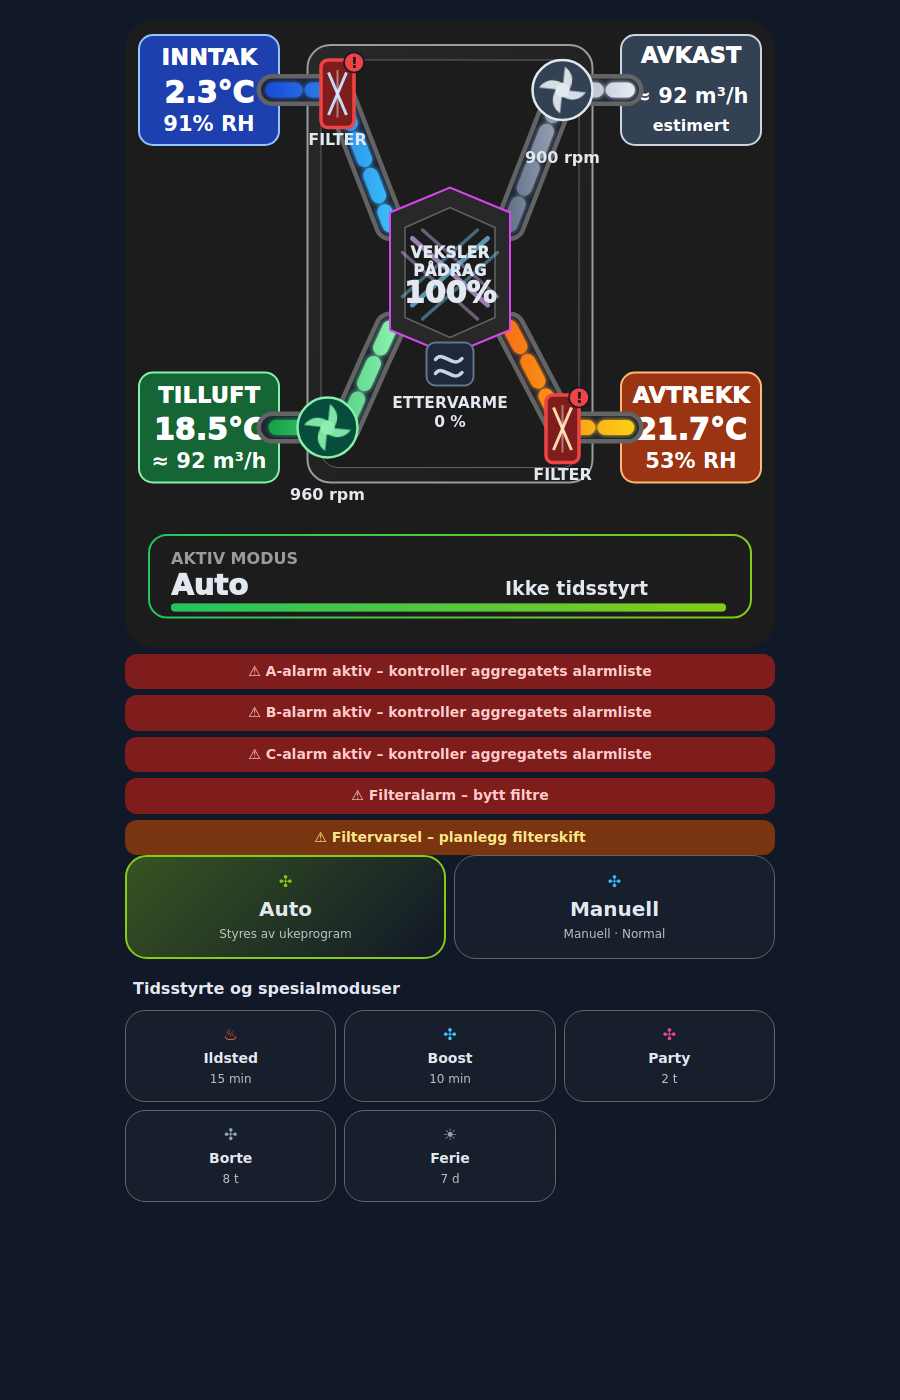
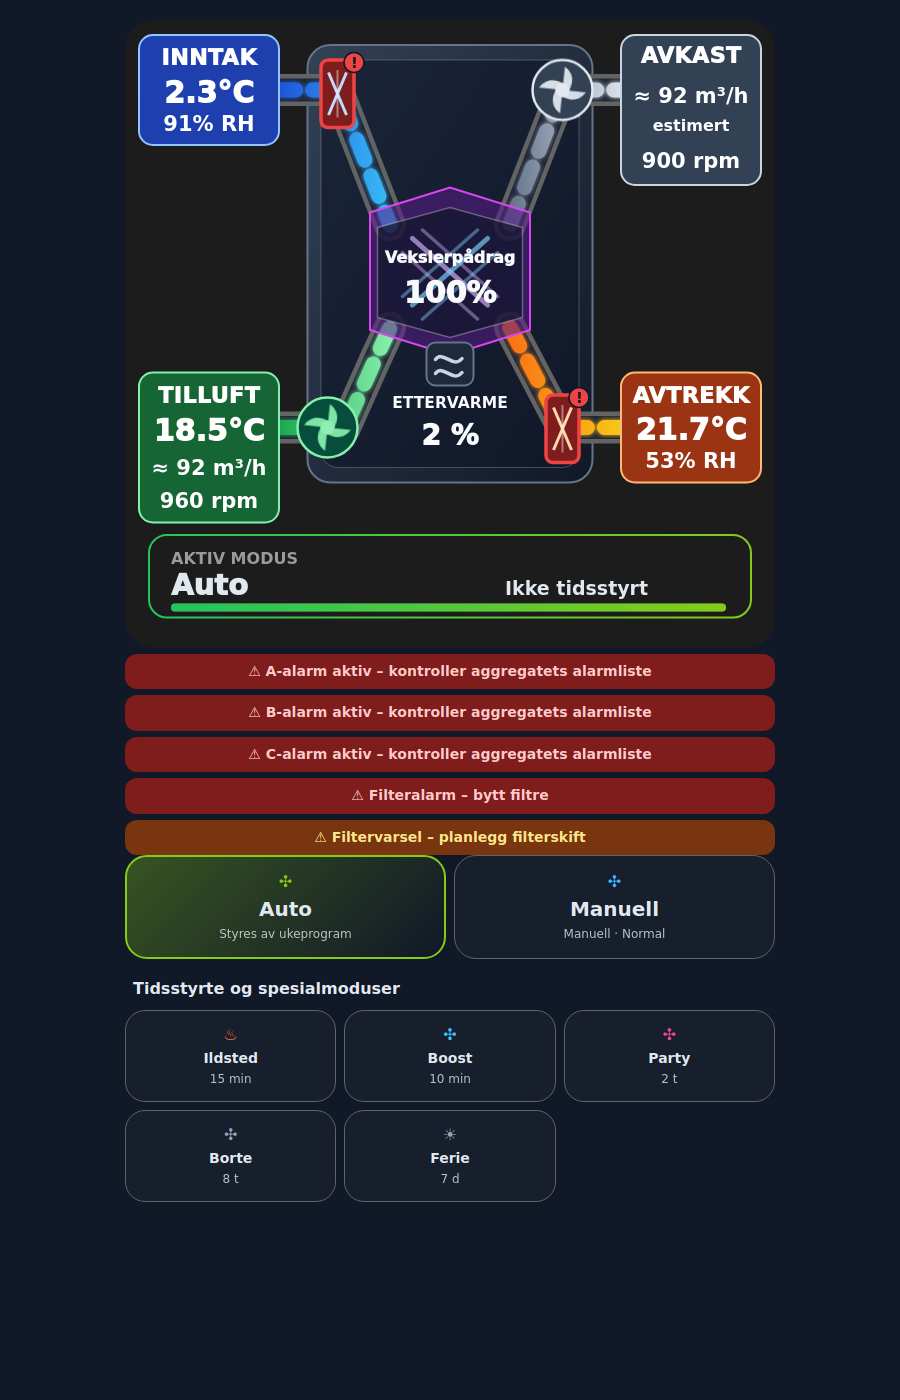
Improve cockpit labels and restore dark equipment in VSR300 Cards 1.1.3

diff --git a/vsr300-cards.js b/vsr300-cards.js
@@ -1,4 +1,4 @@
-/* VSR300 custom cards · version 1.1.2 · 2026-11-02
+/* VSR300 custom cards · version 1.1.3 · 2026-11-02
  * SPDX-License-Identifier: MIT
  * Copyright (c) 2026 stboee
  * Based on Systemair SVG / Kontrollpanel 4.8.1.
@@ -8,7 +8,7 @@
  */
 (() => {
   'use strict';
-  const VERSION = '1.1.2';
+  const VERSION = '1.1.3';
   const FIELD = (key, label, domain, defaultId, extra = {}) => ({ key, label, domain, defaultId, ...extra });
   const SVG_FIELDS = [
     FIELD('mode', 'Rapportert driftsmodus', 'sensor', 'sensor.systemair_save_modus'),
@@ -301,8 +301,8 @@ const heaterFill = !ettervarmeKnown ? '#854d0e' : ettervarmeActive ? '#991b1b' :
           </linearGradient>
 
           <linearGradient id="unitBg" x1="0" y1="0" x2="1" y2="1">
-            <stop offset="0%" stop-color="var(--secondary-background-color, #f5f5f5)" />
-            <stop offset="100%" stop-color="var(--card-background-color, #ffffff)" />
+            <stop offset="0%" stop-color="#334155" />
+            <stop offset="100%" stop-color="#111827" />
           </linearGradient>
 
           <linearGradient id="coldAir" x1="0" y1="0" x2="1" y2="0">
@@ -384,6 +384,9 @@ const heaterFill = !ettervarmeKnown ? '#854d0e' : ettervarmeActive ? '#991b1b' :
               font-weight: 900;
               fill: var(--primary-text-color, #212121);
             }
+            .heater-value { font-size: 56px; font-weight: 950; }
+            .heater-value-unknown { font-size: 36px; }
+            .recovery-title { font-size: 32px; letter-spacing: 0; }
             .mode-title {
               font-family: Arial, sans-serif;
               font-size: 32px;
@@ -404,6 +407,8 @@ const heaterFill = !ettervarmeKnown ? '#854d0e' : ettervarmeActive ? '#991b1b' :
             }
             /* Semantic air-port colours retain a contrasting light foreground. */
             .port-text { fill: #ffffff; }
+            /* Equipment stays dark inside the theme-aware cockpit canvas. */
+            .unit-text { fill: #f8fafc; }
             .duct-base {
               fill: none;
               stroke: var(--divider-color, #bdbdbd);
@@ -442,28 +447,8 @@ const heaterFill = !ettervarmeKnown ? '#854d0e' : ettervarmeActive ? '#991b1b' :
 
         <rect class="canvas" x="0" y="-250" width="1300" height="1255" rx="34" fill="url(#panelBg)" />
 
-        <rect class="unit-shell" x="365" y="-200" width="570" height="875" rx="46" fill="url(#unitBg)" stroke="var(--secondary-text-color, #727272)" stroke-width="4" />
-        <rect class="unit-inner" x="392" y="-170" width="516" height="815" rx="34" fill="var(--card-background-color, #ffffff)" stroke="var(--divider-color, #bdbdbd)" stroke-width="2" />
-
-        <rect x="28" y="-220" width="280" height="220" rx="28" fill="#1e40af" stroke="#93c5fd" stroke-width="4" />
-        <text x="168" y="-160" text-anchor="middle" class="label port-text">INNTAK</text>
-        <text x="168" y="-85" text-anchor="middle" class="value port-text">${uteT}</text>
-        <text x="168" y="-29" text-anchor="middle" class="small port-text">${uteRh}</text>
-
-        <rect x="28" y="455" width="280" height="220" rx="28" fill="#166534" stroke="#86efac" stroke-width="4" />
-        <text x="168" y="515" text-anchor="middle" class="label port-text">TILLUFT</text>
-        <text x="168" y="590" text-anchor="middle" class="value port-text">${tilluftT}</text>
-        <text x="168" y="646" text-anchor="middle" class="small port-text">${tilluftFlow}</text>
-
-        <rect x="992" y="-220" width="280" height="220" rx="28" fill="#334155" stroke="#cbd5e1" stroke-width="4" />
-        <text x="1132" y="-165" text-anchor="middle" class="label port-text">AVKAST</text>
-        <text x="1132" y="-85" text-anchor="middle" class="small port-text">${avkastFlow}</text>
-        <text x="1132" y="-29" text-anchor="middle" class="micro port-text">estimert</text>
-
-        <rect x="992" y="455" width="280" height="220" rx="28" fill="#9a3412" stroke="#fdba74" stroke-width="4" />
-        <text x="1132" y="515" text-anchor="middle" class="label port-text">AVTREKK</text>
-        <text x="1132" y="590" text-anchor="middle" class="value port-text">${avtrekkT}</text>
-        <text x="1132" y="646" text-anchor="middle" class="small port-text">${inneRh}</text>
+        <rect class="unit-shell" x="365" y="-200" width="570" height="875" rx="46" fill="url(#unitBg)" stroke="#64748b" stroke-width="4" />
+        <rect class="unit-inner" x="392" y="-170" width="516" height="815" rx="34" fill="rgba(15,23,42,0.64)" stroke="rgba(148,163,184,0.38)" stroke-width="2" />
 
         <g opacity="${normalOpacity}">
           <path class="duct-base" d="M 295 -110 L 425 -110 L 530 160" />
@@ -493,11 +478,36 @@ const heaterFill = !ettervarmeKnown ? '#854d0e' : ettervarmeActive ? '#991b1b' :
           <path class="duct-flow" d="M 1005 565 L 875 565 L 875 -110 L 1005 -110" stroke="url(#warmAir)" />
         </g>
 
+        <!-- Paint port panels over duct ends so values stay unobscured. -->
+        <g class="air-info">
+          <rect x="28" y="-220" width="280" height="220" rx="28" fill="#1e40af" stroke="#93c5fd" stroke-width="4" />
+          <text x="168" y="-160" text-anchor="middle" class="label port-text">INNTAK</text>
+          <text x="168" y="-85" text-anchor="middle" class="value port-text">${uteT}</text>
+          <text x="168" y="-29" text-anchor="middle" class="small port-text">${uteRh}</text>
+
+          <rect class="supply-info" x="28" y="455" width="280" height="300" rx="28" fill="#166534" stroke="#86efac" stroke-width="4" />
+          <text x="168" y="515" text-anchor="middle" class="label port-text">TILLUFT</text>
+          <text x="168" y="592" text-anchor="middle" class="value port-text">${tilluftT}</text>
+          <text x="168" y="660" text-anchor="middle" class="small port-text">${tilluftFlow}</text>
+          <text x="168" y="725" text-anchor="middle" class="small port-text supply-rpm">${tilluftRpm}</text>
+
+          <rect class="exhaust-info" x="992" y="-220" width="280" height="300" rx="28" fill="#334155" stroke="#cbd5e1" stroke-width="4" />
+          <text x="1132" y="-165" text-anchor="middle" class="label port-text">AVKAST</text>
+          <text x="1132" y="-85" text-anchor="middle" class="small port-text">${avkastFlow}</text>
+          <text x="1132" y="-29" text-anchor="middle" class="micro port-text">estimert</text>
+          <text x="1132" y="46" text-anchor="middle" class="small port-text extract-rpm">${avtrekkRpm}</text>
+
+          <rect x="992" y="455" width="280" height="220" rx="28" fill="#9a3412" stroke="#fdba74" stroke-width="4" />
+          <text x="1132" y="515" text-anchor="middle" class="label port-text">AVTREKK</text>
+          <text x="1132" y="590" text-anchor="middle" class="value port-text">${avtrekkT}</text>
+          <text x="1132" y="646" text-anchor="middle" class="small port-text">${inneRh}</text>
+        </g>
+
         <g opacity="${exchangerOpacity}">
-          <polygon points="530,135 650,85 770,135 770,370 650,420 530,370"
-                   fill="var(--secondary-background-color, #f5f5f5)" stroke="#d946ef" stroke-width="4" />
-          <polygon points="560,165 650,125 740,165 740,345 650,385 560,345"
-                   fill="var(--card-background-color, #ffffff)" stroke="var(--divider-color, #bdbdbd)" stroke-width="3" />
+          <polygon class="exchanger-shell" points="490,135 650,85 810,135 810,370 650,420 490,370"
+                   fill="rgba(88,28,135,0.56)" stroke="#d946ef" stroke-width="4" />
+          <polygon class="exchanger-inner" points="505,165 650,125 795,165 795,345 650,385 505,345"
+                   fill="rgba(15,23,42,0.70)" stroke="rgba(255,255,255,0.30)" stroke-width="3" />
 
           <line x1="575" y1="187" x2="725" y2="320" stroke="rgba(216,180,254,0.66)" stroke-width="10" stroke-linecap="round" />
           <line x1="595" y1="170" x2="745" y2="303" stroke="rgba(216,180,254,0.42)" stroke-width="7" stroke-linecap="round" />
@@ -507,9 +517,8 @@ const heaterFill = !ettervarmeKnown ? '#854d0e' : ettervarmeActive ? '#991b1b' :
           <line x1="705" y1="170" x2="555" y2="303" stroke="rgba(125,211,252,0.42)" stroke-width="7" stroke-linecap="round" />
           <line x1="745" y1="215" x2="595" y2="348" stroke="rgba(125,211,252,0.42)" stroke-width="7" stroke-linecap="round" />
 
-          <text x="650" y="225" text-anchor="middle" class="label" style="font-size:30px">VEKSLER</text>
-          <text x="650" y="262" text-anchor="middle" class="label" style="font-size:30px">PÅDRAG</text>
-          <text x="650" y="315" text-anchor="middle" class="value">${gjenv}</text>
+          <text x="650" y="235" text-anchor="middle" class="label unit-text recovery-title">Vekslerpådrag</text>
+          <text x="650" y="315" text-anchor="middle" class="value unit-text">${gjenv}</text>
         </g>
 
         <g opacity="${freeOpacity}">
@@ -524,21 +533,19 @@ const heaterFill = !ettervarmeKnown ? '#854d0e' : ettervarmeActive ? '#991b1b' :
         <line x1="443" y1="-145" x2="407" y2="-60" stroke="#bfdbfe" stroke-width="6" />
         <line x1="425" y1="-150" x2="425" y2="-55" stroke="rgba(255,255,255,0.42)" stroke-width="4" />
         ${filterBadge(458, -165)}
-        <text x="425" y="0" text-anchor="middle" class="micro">FILTER</text>
 
         <rect x="842" y="500" width="66" height="135" rx="14" class="extract-filter" data-status="${filterState}" fill="${fc ? fc[0] : '#7c2d12'}" stroke="${fc ? fc[1] : '#fdba74'}" stroke-width="${fc ? 7 : 4}" />
         <line x1="857" y1="525" x2="893" y2="610" stroke="#fed7aa" stroke-width="6" />
         <line x1="893" y1="525" x2="857" y2="610" stroke="#fed7aa" stroke-width="6" />
         <line x1="875" y1="520" x2="875" y2="615" stroke="rgba(255,255,255,0.42)" stroke-width="4" />
         ${filterBadge(908, 505)}
-        <text x="875" y="670" text-anchor="middle" class="micro">FILTER</text>
 
         <g filter="${heaterGlow}">
           <rect x="603" y="395" width="94" height="86" rx="18" fill="${heaterFill}" stroke="${heaterStroke}" stroke-width="4" />
           <path d="M621 429 C636 409, 656 449, 674 427" fill="none" stroke="${heaterWave}" stroke-width="7" stroke-linecap="round" />
           <path d="M621 457 C636 437, 656 477, 674 455" fill="none" stroke="${heaterWave}" stroke-width="7" stroke-linecap="round" />
-          <text x="650" y="525" text-anchor="middle" class="heater-text">${heaterTitle}</text>
-          <text x="650" y="564" text-anchor="middle" class="heater-text">${ettervarmeSub}</text>
+          <text x="650" y="525" text-anchor="middle" class="heater-text unit-text">${heaterTitle}</text>
+          <text x="650" y="600" text-anchor="middle" class="heater-text heater-value unit-text${Number.isFinite(triacNum) ? '' : ' heater-value-unknown'}">${ettervarmeSub}</text>
         </g>
 
         <circle cx="405" cy="565" r="60" fill="#064e3b" stroke="#86efac" stroke-width="5" />
@@ -549,7 +556,6 @@ const heaterFill = !ettervarmeKnown ? '#854d0e' : ettervarmeActive ? '#991b1b' :
           <path d="M405 565 L405 612 Q379 596 392 565 Z" fill="#86efac" opacity="0.93" />
           <path d="M405 565 L358 565 Q374 539 405 552 Z" fill="#86efac" opacity="0.93" />
         </g>
-        <text x="405" y="710" text-anchor="middle" class="micro">${tilluftRpm}</text>
 
         <circle cx="875" cy="-110" r="60" fill="#334155" stroke="#e2e8f0" stroke-width="5" />
         <circle cx="875" cy="-110" r="14" fill="#f8fafc" opacity="0.9" />
@@ -559,7 +565,6 @@ const heaterFill = !ettervarmeKnown ? '#854d0e' : ettervarmeActive ? '#991b1b' :
           <path d="M875 -110 L875 -63 Q849 -79 862 -110 Z" fill="#e2e8f0" opacity="0.93" />
           <path d="M875 -110 L828 -110 Q844 -136 875 -123 Z" fill="#e2e8f0" opacity="0.93" />
         </g>
-        <text x="875" y="35" text-anchor="middle" class="micro">${avtrekkRpm}</text>
 
         <rect class="mode-box" x="48" y="780" width="1204" height="165" rx="36" fill="var(--card-background-color, #ffffff)" stroke="url(#modeGrad)" stroke-width="4" />
         <text x="92" y="837" class="mode-title">AKTIV MODUS</text>

diff --git a/VERIFIKASJON.md b/VERIFIKASJON.md
@@ -1,6 +1,33 @@
-# Verifikasjon – 1.1.2 – 2026-11-02
+# Verifikasjon – 1.1.3 – 2026-11-02
 
-## Gjennomført lokalt for 1.1.2
+## Gjennomført lokalt for 1.1.3
+
+- 14 simulerte nettlesergrupper er bestått. Lys mobilvisning og mørk
+  desktopvisning er gjennomgått visuelt etter siste endring.
+- Layoutkontroll i simulerte nettlesere ved 360, 412 og 900 px bredde omfatter
+  firesifret rpm, luftmengde opp til modellkapasiteten og ettervarmeverdiene
+  0 %, 2 %, 100 % og ukjent. Tekstgrenser og linjeavstand måles i rendret SVG.
+- Informasjonsboksene tegnes over kanalendene, slik at kanalene ikke dekker
+  tallene i boksene.
+- Rpm står i egne linjer i Tilluft- og Avkast-boksene. Temperatur- og
+  luftmengdeteksten har beholdt størrelsen; boksene er blitt høyere.
+- SVG-ens viewBox er uendret. Hele illustrasjonen skaleres dermed ikke ekstra
+  ned for å få plass til endringene. De 28 opprinnelige path-formene beholdes.
+- Ettervarmeprosentens skriftstørrelse er økt fra 31 til 56 SVG-enheter.
+  Ukjent pådrag vises fortsatt som ukjent, med egen lesbar tekststørrelse.
+- Vekslerpådrag står på én linje i en noe bredere vekslerflate. De separate
+  FILTER-tekstene er fjernet; filtersymbolene og alarmvisningen beholdes.
+- Aggregatets og vekslerens mørke farger er hentet fra 1.1.1. Lys tekst på
+  aggregatet beholdes gjennom bytte av HA-tema, mens bakgrunn og modusfelt
+  fortsatt følger lyse, mørke og egendefinerte HA-paletter.
+- Tidligere kontroller for lokal nedtelling, animasjoner, 32 alarmkombinasjoner,
+  entitetsvalg og simulerte betjeningskall er bestått på nytt.
+
+Dette er lokale kontroller med simulerte verdier, ikke en ny verifikasjon på
+VSR300-aggregatet. Faktisk lesbarhet i brukerens HA og på Pixel 8 Pro må bekreftes
+etter manuell oppdatering. Auto-nivåklassifisering er ikke lagt til.
+
+## Historisk kontrollgrunnlag – 1.1.2, 2026-11-02
 
 - 13 simulerte nettlesergrupper er bestått. Temakontrollen omfatter lyst, mørkt
   og en egendefinert palett, hver med både lyst og mørkt OS-fargevalg.
@@ -107,8 +134,8 @@ spesifisert dekning av alle kontroller, editorvalg eller signalkombinasjoner.
 
 ## Publiseringskontroll og gjenstående arbeid
 
-1.1.2 viderefører tidligere kortfunksjoner og knytter cockpitens nøytrale farger
-til Home Assistant-temaet. Komplette eksempler, dokumentasjonslenker og
+1.1.3 viderefører tidligere kortfunksjoner, forbedrer tekstplasseringen og
+beholder temaavhengig bakgrunn rundt et mørkt aggregat og en mørk veksler. Komplette eksempler, dokumentasjonslenker og
 pakkens sjekksummer kontrolleres før publisering. MIT-lisensen beholdes uendret.
 
 Full gjennomgang av HAs grafiske editor, entitetsbytte, modusbetjening og

diff --git a/README.md b/README.md
@@ -2,7 +2,7 @@
 
 Two Home Assistant cards for Systemair SAVE VSR300: **Systemair SVG** and
 **Systemair Kontrollpanel**, with graphical entity selection. Current card
-version: **1.1.2**. Reference setup: HA 2026.10.2 and
+version: **1.1.3**. Reference setup: HA 2026.10.2 and
 [Howard systemair_modbus 1.3.0](https://github.com/Howard0000/home-assistant-systemair-modbus).
 
 [Norsk veiledning](README.nb.md)
@@ -11,7 +11,7 @@ version: **1.1.2**. Reference setup: HA 2026.10.2 and
 
 1. Download [vsr300-cards.js](vsr300-cards.js) using GitHub's **Download raw file** button.
 2. Copy it to `/config/www/vsr300/vsr300-cards.js` in Home Assistant. Create the `vsr300` folder if needed.
-3. Add a dashboard resource with URL **`/local/vsr300/vsr300-cards.js?v=1.1.2`** and type **JavaScript module**.
+3. Add a dashboard resource with URL **`/local/vsr300/vsr300-cards.js?v=1.1.3`** and type **JavaScript module**.
 4. Fully reload the browser, edit the dashboard and add **Systemair SVG** and **Systemair Kontrollpanel** from the card picker.
 5. **Adapt the entity bindings in both cards.** Open **Entitetskoblinger**, check every field and replace the example IDs with the matching entities from your own Home Assistant installation. Clear optional fields you do not use.
 
@@ -32,7 +32,8 @@ When upgrading from 1.0.0, select the optional **A-alarm**, **B-alarm** and
 
 ## Options and displayed values
 
-- The cockpit background, neutral panels and text follow the active Home Assistant theme, including light/dark changes. Air-port and alarm colours retain their meaning and contrasting text.
+- The outer cockpit background and mode panel follow the active Home Assistant theme. The unit and heat exchanger retain a dark appearance with light text in both light and dark themes. Air-port and alarm colours retain their meaning.
+- Fan RPM is shown in the taller Tilluft and Avkast information boxes. Heater percentage is enlarged; Vekslerpådrag appears on one line. Filter symbols and warning badges remain visible without separate FILTER captions.
 - Animations: **På** (default), **Auto – følg enheten**, or **Av**. On animates even when the device requests reduced motion; Auto follows that preference.
 - Headings are hidden by default. Enable **Vis overskrift** to show a custom heading.
 - Remaining mode time counts down locally each second between integration reports and resynchronises with new reports. This is a display estimate; the active mode continues to come from the integration.

diff --git a/README.nb.md b/README.nb.md
@@ -1,7 +1,7 @@
 # VSR300 Cards – installasjon
 
 To Home Assistant-kort for Systemair SAVE VSR300: **Systemair SVG** og
-**Systemair Kontrollpanel**, med grafisk valg av entiteter. Kortversjon: **1.1.2**.
+**Systemair Kontrollpanel**, med grafisk valg av entiteter. Kortversjon: **1.1.3**.
 Referanseoppsettet er HA 2026.10.2 og
 [Howard systemair_modbus 1.3.0](https://github.com/Howard0000/home-assistant-systemair-modbus).
 
@@ -9,7 +9,7 @@ Referanseoppsettet er HA 2026.10.2 og
 
 1. Last ned [vsr300-cards.js](vsr300-cards.js) med GitHubs **Download raw file**-knapp.
 2. Kopier filen til `/config/www/vsr300/vsr300-cards.js` i Home Assistant. Opprett mappen `vsr300` ved behov.
-3. Legg til en dashboardressurs med URL **`/local/vsr300/vsr300-cards.js?v=1.1.2`** og type **JavaScript-modul**.
+3. Legg til en dashboardressurs med URL **`/local/vsr300/vsr300-cards.js?v=1.1.3`** og type **JavaScript-modul**.
 4. Last nettlesersiden helt på nytt. Rediger dashboardet og legg til **Systemair SVG** og **Systemair Kontrollpanel** fra kortvelgeren.
 5. **Tilpass entitetskoblingene i begge kort.** Åpne **Entitetskoblinger**, kontroller hvert felt og bytt eksempelnavnene til tilsvarende entiteter i din egen Home Assistant-installasjon. Tøm valgfrie felt du ikke bruker.
 
@@ -30,7 +30,8 @@ Ved oppdatering fra 1.0.0 velger du de valgfrie **A-alarm**, **B-alarm** og
 
 ## Valg og verdier
 
-- Cockpitens bakgrunn, nøytrale paneler og tekst følger det aktive HA-temaet, også ved bytte mellom lyst og mørkt. Luftportenes og alarmenes farger beholder betydningen og har kontrasterende tekst.
+- Bakgrunnen rundt aggregatet og modusfeltet følger det aktive HA-temaet. Aggregat og veksler har mørke flater med lys tekst i både lyst og mørkt tema. Luftportenes og alarmenes farger beholder betydningen.
+- Viftenes rpm står i høyere informasjonsbokser for Tilluft og Avkast. Ettervarmeprosenten er større, og Vekslerpådrag står på én linje. Filtersymboler og varselmerker beholdes uten separate FILTER-tekster.
 - Animasjoner: **På** (standard), **Auto – følg enheten** eller **Av**. På animerer også når enheten ber om redusert bevegelse; Auto følger enhetens valg.
 - Overskrifter er skjult som standard. **Vis overskrift** aktiverer egen overskrift.
 - Resttid telles ned lokalt hvert sekund mellom integrasjonens rapporteringer og synkroniseres med nye rapporter. Dette er en beregnet visning; aktiv modus kommer fortsatt fra integrasjonen.

diff --git a/CHANGELOG.md b/CHANGELOG.md
@@ -1,5 +1,24 @@
 # Changelog
 
+## 1.1.3 — 2026-11-02
+
+- Move supply fan RPM into the Tilluft information box and extract fan RPM into
+  Avkast. Increase those box heights and line spacing without reducing existing
+  temperature/airflow fonts or enlarging the SVG viewBox.
+- Paint the information panels over the duct ends so airflow graphics do not
+  cover temperatures, airflow estimates or RPM text.
+- Remove the two FILTER captions at the unit edges. Keep both filter symbols,
+  their warning/alarm badges and the alarm rows below the illustration.
+- Restore the dark unit and exchanger colours from 1.1.1 with light equipment
+  text. The surrounding canvas and mode panel continue to follow the HA theme.
+- Show Vekslerpådrag on one line in a slightly wider exchanger face, preserving
+  the original airflow paths. Enlarge numeric heater output from 31 to 56 SVG
+  units and give the unknown-output label its own readable style.
+- Fourteen simulated browser groups pass, including text bounds at 360/412/900px,
+  HA themes, alarm combinations, local countdown and existing controls.
+- Keep entity bindings, controls, animations and local countdown unchanged.
+  Auto Low/Normal/High classification is outside this change.
+
 ## 1.1.2 — 2026-11-02
 
 - Replace fixed dark cockpit backgrounds and neutral text colours with inherited

diff --git a/SOURCES.md b/SOURCES.md
@@ -13,6 +13,10 @@ reports. The displayed remaining time is extrapolated from the last reported
 value and available HA timestamps; it is not a new register measurement.
 Version 1.1.2, 2026-11-02, uses inherited Home Assistant theme variables for cockpit
 backgrounds and neutral text. Semantic air-port and alarm colours are retained.
+Version 1.1.3, 2026-11-02, restores the reviewed 1.1.1 equipment colours inside
+the theme-aware canvas, moves fan RPM to taller air-port boxes, and improves
+equipment labels and heater percentage size. The exchanger face is wider to
+fit its single-line title; the airflow paths and data bindings are unchanged.
 
 The initial entity names are configuration presets from the maintainer's HA
 installation. They are not credentials, recorded operating data or universal

diff --git a/ENTITETSKART.md b/ENTITETSKART.md
@@ -1,4 +1,4 @@
-# Entitetskart – custom cards 1.1.2
+# Entitetskart – custom cards 1.1.3
 
 Startkoblingene er eksempler fra referanseoppsettet. Brukeren må kontrollere alle
 koblinger i begge kort og endre dem til tilsvarende entiteter i sin egen
